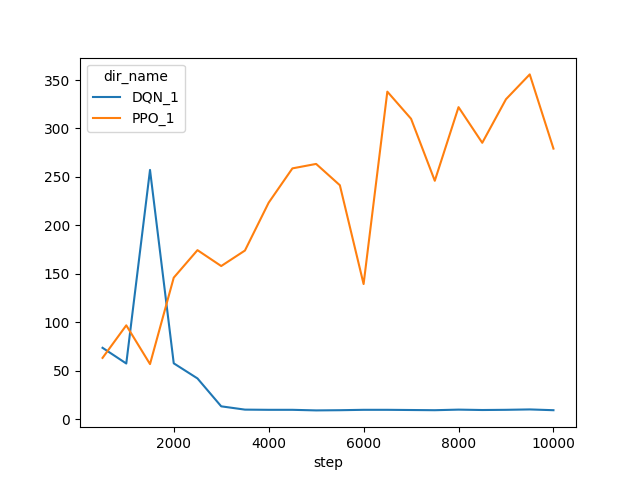
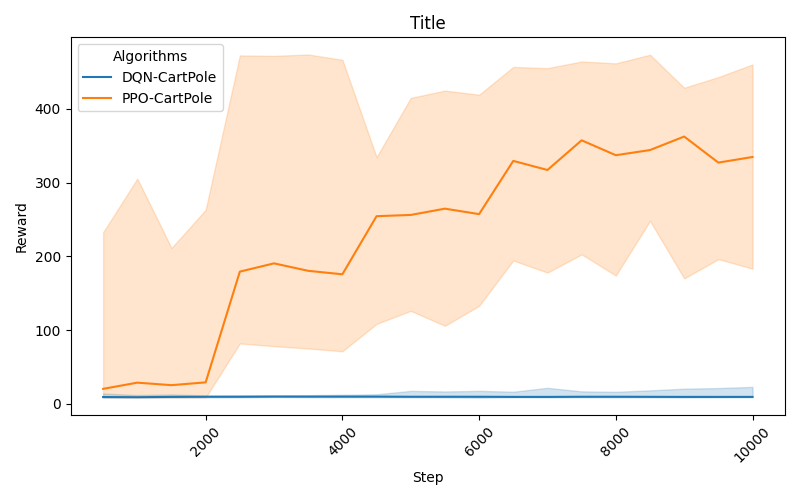
[+] loop through seeds & nicer graphs

diff --git a/src/main.py b/src/main.py
@@ -1,30 +1,43 @@
 import gymnasium as gym
+import numpy as np
 from stable_baselines3 import DQN, PPO
 from stable_baselines3.common.callbacks import ProgressBarCallback, EvalCallback
 
 def call_eval_loop() -> None:
 
+    envs = ["CartPole-v1"]
+    seeds = np.random.randint(low=0, high=10000, size=100)
+    models = ["DQN"]
+
     # Parameter
-    env_name = "CartPole-v1"
-    SEED = 0
+    for i in range(100):
+        ENV_NAME = np.random.choice(envs)
+        SEED = int(np.random.choice(seeds))
+        MODEL_NAME = np.random.choice(models)
+
+        eval_loop(MODEL_NAME, ENV_NAME, SEED)
+
+def eval_loop(model_name, env_name, seed)->None:
 
     # create the main variables
     env = gym.make(env_name)
-    env.reset(seed=SEED)
-    model = PPO("MlpPolicy", env, verbose=1, tensorboard_log="./logs/MlpPolicy/")
+    env.reset(seed=seed)
+
+    if model_name == "PPO":
+        model = PPO("MlpPolicy", env, verbose=1, tensorboard_log="./logs/MlpPolicy/")
+    elif model_name == "DQN":
+        model = DQN("MlpPolicy", env, verbose=1, tensorboard_log="./logs/MlpPolicy/", learning_rate=1e-3)
 
     # Separate evaluation env
     eval_env = gym.make(env_name)
     # Use deterministic actions for evaluation
-    eval_callback = EvalCallback(eval_env, best_model_save_path="./logs/",
-                                 log_path="./logs/", eval_freq=500,
+    eval_callback = EvalCallback(eval_env,  eval_freq=500,
                                  deterministic=True, render=False)
 
     # run the model with the callbacks
-    model.learn(total_timesteps=10000, callback=[ProgressBarCallback(), eval_callback])
-
-def graphs() -> None:
-    print("Done")
+    model.learn(total_timesteps=10000,
+                callback=[ProgressBarCallback(), eval_callback],
+                tb_log_name=f"{model_name}-{env_name}-{seed}",)
 
 
 if __name__ == "__main__":

diff --git a/src/graphs.py b/src/graphs.py
@@ -1,16 +1,55 @@
+import numpy as np
+import pandas as pd
 from tbparse import SummaryReader
 import matplotlib.pyplot as plt
+import seaborn as sns
 
 def graphs() -> None:
     log_dir = "./logs/MlpPolicy/"
     reader = SummaryReader(log_dir, extra_columns={'dir_name'})
     df = reader.scalars
-    print(df[df["tag"] == "eval/mean_reward"])
 
-    df[df["tag"] == "eval/mean_reward"].pivot(index="step", columns="dir_name", values="value").plot()
+    df["ALG_ENV"] = df["dir_name"].apply(lambda x: "-".join(x.split("-")[0:2]))
+    algs_envs = df["ALG_ENV"].unique()
 
-    fig = plt.gcf()
-    fig.savefig('output.png')
+    def percentile5(x: pd.Series) -> pd.DataFrame:
+        return np.percentile(x, 5)
+
+    def percentile95(x: pd.Series) -> pd.DataFrame:
+        return np.percentile(x, 95)
+
+
+    df = df[df["tag"] == "eval/mean_reward"].pivot_table(
+        index="step",
+        columns="ALG_ENV",
+        values="value",
+        aggfunc=[np.median, percentile5, percentile95],
+    )
+
+    # Start plot
+    plt.figure(figsize=(8, 5))
+
+    # Get color palette
+    palette = sns.color_palette("tab10", len(algs_envs))
+
+    # Loop through each group
+    for i, group in enumerate(algs_envs):
+        # Plot line using seaborn
+        sns.lineplot(x=df.index, y=df["median"][group], label=group, color=palette[i])
+
+        # Add error bounds
+        plt.fill_between(df.index, df['percentile5'][group], df['percentile95'][group], alpha=0.2, color=palette[i])
+
+    # Final touches
+    plt.xlabel("Step")
+    plt.ylabel("Reward")
+    plt.title("Title")
+    plt.xticks(rotation=45)
+    plt.tight_layout()
+    plt.legend(title="Algorithms")
+    plt.show()
+
+    plt.savefig('output.png')
 
 
 if __name__ == "__main__":
